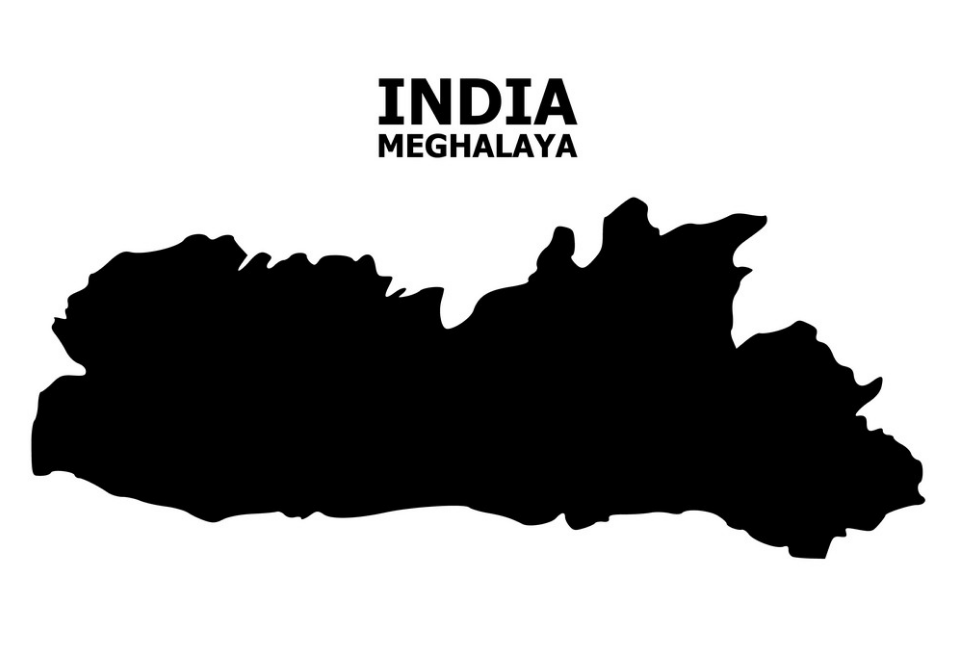
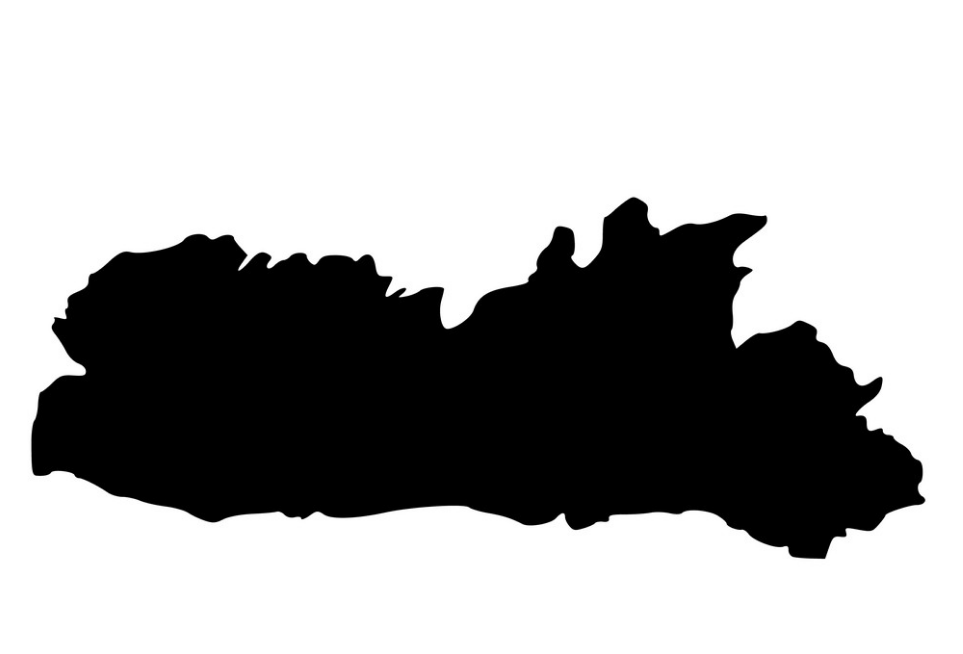
Added state maps as images in 'Covid Resources'

Changed region(s): [[0.3738, 0.1223, 0.6231, 0.2446]]

diff --git a/src/components/Resources.js b/src/components/Resources.js
@@ -1,10 +1,40 @@
 import React from 'react'
 import {Card,Button} from 'react-bootstrap'
-import Corona1 from '../assets/image/corona1.jpeg'
-import Corona2 from '../assets/image/corona2.jpeg'
-import Corona3 from '../assets/image/corona3.jpeg'
-import Corona4 from '../assets/image/corona4.jpeg'
-
+import an from '../assets/states/andaman&nicobar.png'
+import andhra from '../assets/states/andhra_pradesh.png'
+import arunachal from '../assets/states/arunachal_pradesh.png'
+import assam from '../assets/states/assam.png'
+import bihar from '../assets/states/bihar.png'
+import chandigarh from '../assets/states/chandigarh.png'
+import chhattisgarh from '../assets/states/chhattisgarh.png'
+import dn from '../assets/states/dadra&nagar.png'
+import dd from '../assets/states/daman&diu.png'
+import delhi from '../assets/states/delhi.png'
+import goa from '../assets/states/goa.png'
+import gujarat from '../assets/states/gujarat.jpg'
+import haryana from '../assets/states/haryana.png'
+import hp from '../assets/states/himachal_pradesh.png'
+import jk from '../assets/states/jammu&kashmir.png'
+import jharkhand from '../assets/states/jharkhand.png'
+import karnataka from '../assets/states/karnataka.png'
+import kerala from '../assets/states/kerala.png'
+import mp from '../assets/states/madhya_pradesh.png'
+import maharashtra from '../assets/states/maharashtra.png'
+import manipur from '../assets/states/manipur.png'
+import meghalaya from '../assets/states/meghalaya.png'
+import nagaland from '../assets/states/nagaland.png'
+import odisha from '../assets/states/odisha.png'
+import puducherry from '../assets/states/puducherry.png'
+import punjab from '../assets/states/punjab.png'
+import rajasthan from '../assets/states/rajasthan.png'
+import sikkim from '../assets/states/sikkim.png'
+import tn from '../assets/states/tamil_nadu.png'
+import telangana from '../assets/states/telangana.png'
+import tripura from '../assets/states/tripura.png'
+import up from '../assets/states/uttar_pradesh.png'
+import uttarakhand from '../assets/states/uttarakhand.png'
+import wb from '../assets/states/west_bengal.png'
+import Corona1 from "../assets/image/corona1.jpeg"
 import '../styles/GuideCard.css'
 
 function StateCard(props) {
@@ -16,7 +46,7 @@ function StateCard(props) {
     "Assam",
     "Bihar",
     "Chhattisgarh",
-    "Goa",
+    "Goa",  
     "Gujarat",
     "Haryana",
     "Himachal Pradesh",
@@ -49,170 +79,170 @@ function StateCard(props) {
     
         docs=[
             {
-                image:Corona1,
+                image:andhra,
                 title:states[0],
                 link:'https://life.coronasafe.network/andhra_pradesh'
             },
             {
-                image:Corona1,
+                image:arunachal,
                 title:states[1],
                 link:'https://life.coronasafe.network/arunachal_pradesh'
             },
             {
-                image:Corona1,
+                image:assam,
                 title:states[2],
                 link:'https://life.coronasafe.network/assam'
             },
             {
-                image:Corona1,
+                image:bihar,
                 title:states[3],
                 link:'https://life.coronasafe.network/bihar'
             },
             {
-                image:Corona1,
+                image:chhattisgarh,
                 title:states[4],
                 link:'https://life.coronasafe.network/chhattisgarh'
             },
             {
-                image:Corona1,
+                image:goa,
                 title:states[5],
                 link:'https://life.coronasafe.network/goa'
             }, {
-                image:Corona1,
+                image:gujarat,
                 title:states[6],
                 link:'https://life.coronasafe.network/gujarat'
             }
             , {
-                image:Corona1,
+                image:haryana,
                 title:states[7],
                 link:'https://life.coronasafe.network/haryana'
             }, {
-                image:Corona1,
+                image:hp,
                 title:states[8],
                 link:'https://life.coronasafe.network/himachal_pradesh'
             },
             {
-                image:Corona1,
+                image:jk,
                 title:states[9],
                 link:'https://life.coronasafe.network/jammu_&_kashmir_(ut)'
             },
             {
-                image:Corona1,
+                image:jharkhand,
                 title:states[10],
                 link:'https://life.coronasafe.network/jharkhand'
             },
             {
-                image:Corona1,
+                image:karnataka,
                 title:states[11],
                 link:'https://life.coronasafe.network/karnataka'
             },
             {
-                image:Corona1,
+                image:kerala,
                 title:states[12],
                 link:'https://life.coronasafe.network/kerala'
             },
             {
-                image:Corona1,
+                image:mp,
                 title:states[13],
                 link:'https://life.coronasafe.network/madhya_pradesh'
             },
             {
-                image:Corona1,
+                image:maharashtra,
                 title:states[14],
                 link:'https://life.coronasafe.network/maharashtra'
             },
             {
-                image:Corona1,
+                image:manipur,
                 title:states[15],
                 link:'https://life.coronasafe.network/manipur'
             },
             {
-                image:Corona1,
+                image:meghalaya,
                 title:states[16],
                 link:'https://life.coronasafe.network/meghalaya'
             },
             {
-                image:Corona1,
+                image:nagaland,
                 title:states[17],
                 link:'https://life.coronasafe.network/nagaland'
             },
             {
-                image:Corona1,
+                image:odisha,
                 title:states[18],
                 link:'https://life.coronasafe.network/odisha'
                 
             },
             {
-                image:Corona1,
+                image:punjab,
                 title:states[19],
                 link:'https://life.coronasafe.network/punjab'
              
             },
             {
-                image:Corona1,
+                image:rajasthan,
                 title:states[20],
                 link:'https://life.coronasafe.network/rajasthan'
             },
             {
-                image:Corona1,
+                image:sikkim,
                 title:states[21],
                 link:'https://life.coronasafe.network/sikkim'
             }, {
-                image:Corona1,
+                image:tn,
                 title:states[22],
                 link:'https://life.coronasafe.network/tamil_nadu'
             },
             {
-                image:Corona1,
+                image:telangana,
                 title:states[23],
                 link:'https://life.coronasafe.network/telangana'
             }, {
-                image:Corona1,
+                image:tripura,
                 title:states[24],
                 link:'https://life.coronasafe.network/tripura'
             },
             {
-                image:Corona1,
+                image:uttarakhand,
                 title:states[25],
                 link:'https://life.coronasafe.network/uttarakhand'
             },
             {
-                image:Corona1,
+                image:up,
                 title:states[26],
                 link:'https://life.coronasafe.network/uttar_pradesh'
             },
             {
-                image:Corona1,
+                image:wb,
                 title:states[27],
-                link:'https://life.coronasafe.network/uttarakhand'
-            },
-            {
-                image:Corona1,
-                title:states[28],
                 link:'https://life.coronasafe.network/west_bengal'
             },
             {
-                image:Corona1,
-                title:states[29],
+                image:an,
+                title:states[28],
                 link:'https://life.coronasafe.network/andaman_and_nicobar_islands_(ut)'
             },
             , {
-                image:Corona1,
-                title:states[30],
+                image:chandigarh,
+                title:states[29],
                 link:'https://life.coronasafe.network/chandigarh_(ut)'
             },
             {
-                image:Corona1,
+                image:dn,
+                title:states[30],
+                link:'https://life.coronasafe.network/dadra_and_nagar_haveli_and_daman_&_diu_(ut)'
+            },
+            {
+                image:dd,
                 title:states[31],
                 link:'https://life.coronasafe.network/dadra_and_nagar_haveli_and_daman_&_diu_(ut)'
             },
             {
-                image:Corona1,
+                image:delhi,
                 title:states[32],
                 link:'https://life.coronasafe.network/delhi_(nct)'
             },
             {
-                image:Corona1,
+                image:puducherry,
                 title:states[33],
                 link:'https://life.coronasafe.network/puducherry_(ut)'
             }
@@ -228,7 +258,9 @@ function StateCard(props) {
                 {docs && docs.map(doc => (
                         <Card style={{ width: '22rem' }} className='box'>
                             <Card.Img variant="top" src={doc.image}className='boximg'/>
+                            {/* <center>(State Map)</center> */}
                                 <Card.Body>
+                                <hr/>
                                 <center>
                                     <Card.Title>
                                         {doc.title}
